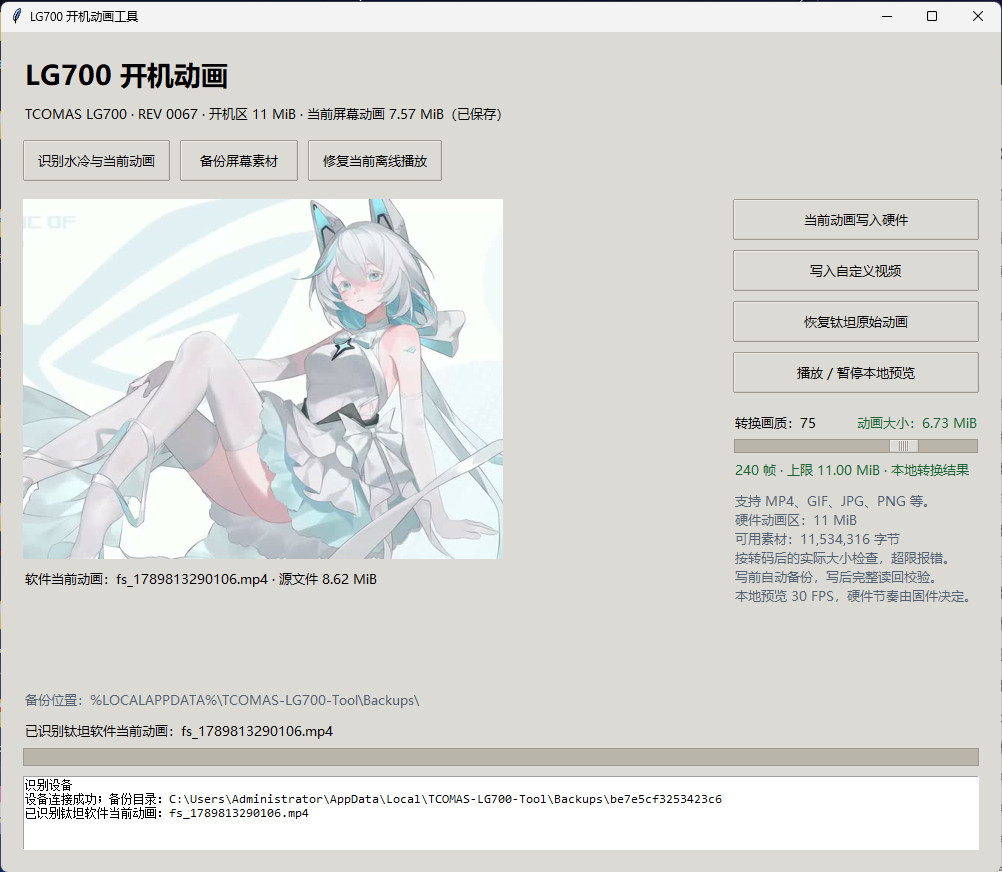
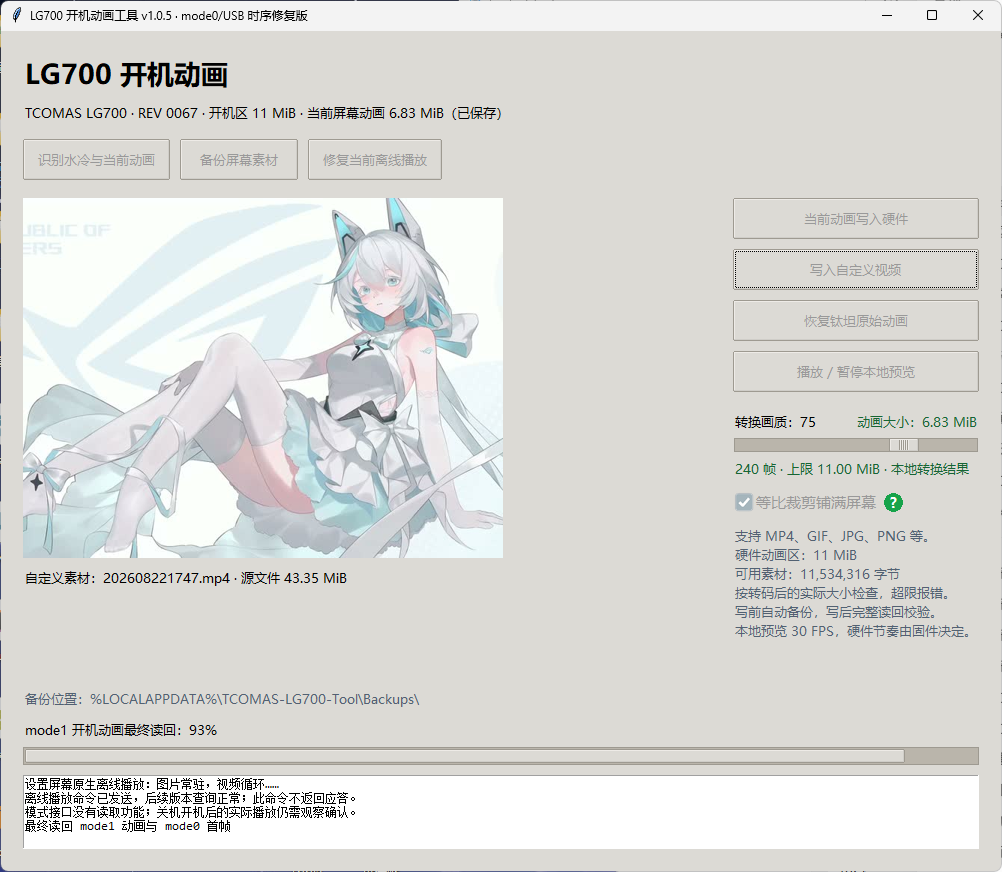
Update v1.0.2 release documentation and preview

diff --git a/README.md b/README.md
@@ -60,6 +60,7 @@
 > 写入耗时参考约 **3 分钟**，实际取决于素材大小、备份和读回过程。请等待操作完成，期间不要断电或拔出设备。
 >
 > **v1.0.1** 新增离线写入保护：备份核验后暂停循环，写入和完整读回通过后恢复；操作期间暂时显示静态图是正常现象。27 项离线测试通过，同一份 9.84 MiB 动画已完成一轮实机恢复写入、完整读回及循环播放确认。[查看验证记录](docs/write-idle-guard-validation.md)。
+> **v1.0.5** 修复 REV 0067 在 mode0 待机记录提交后立即切换 mode1 时偶发回退旧图片的问题；增加 3 秒提交等待、复核和 USB 重连后的只读验证。
 
 <a id="features"></a>
 

diff --git a/CHANGELOG.md b/CHANGELOG.md
@@ -1,5 +1,9 @@
 # Changelog
 
+## v1.0.5 — 2026-10-25
+
+修复 REV 0067 在 mode0 待机记录提交后立即切换 mode1 时偶发回退旧图片的问题。mode0 写入后等待并复核闪存记录；mode1 切换后的 USB 短暂重连只执行只读重连验证，不重复发送写入或模式命令。更新程序预览图。
+
 ## v1.0.1 — 2026-10-25
 
 新增离线写入保护：完整备份后发送模式 0，写入和读回全部通过后才恢复模式 1；失败不自动重发擦写。修正 `0x1E` 无 ACK 命令的误报超时，补充失败块偏移及长度日志。
